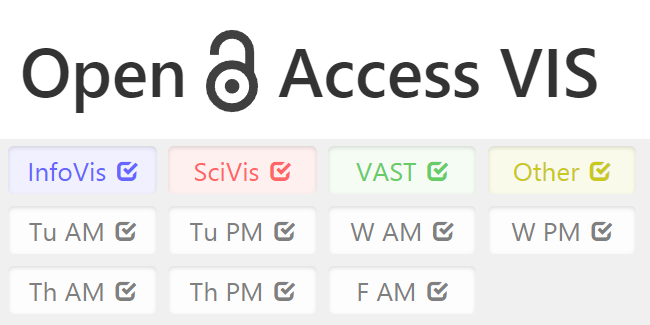
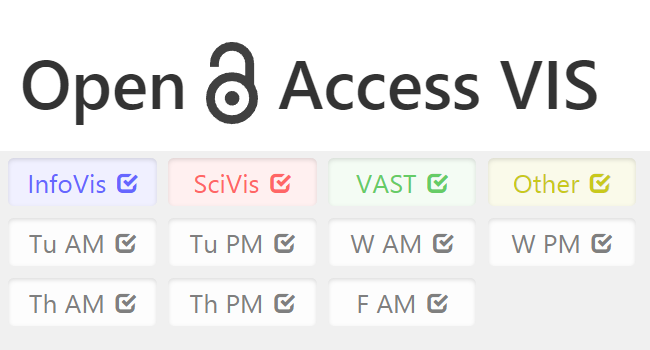
twitter image

diff --git a/index.html b/index.html
@@ -9,7 +9,7 @@
     <meta name="twitter:creator" content="@sharoz" />
     <meta name="twitter:title" content="Open Access VIS" />
     <meta name="twitter:description" content="A collection of open access research at the VIS 2017 conference"/>
-    <meta name="twitter:image" content="http://oavis.steveharoz.com/images/summary.png?1" />
+    <meta name="twitter:image" content="http://oavis.steveharoz.com/images/summary.png?2" />
     <title>Open Access VIS</title>
 
     <!-- Bootstrap -->
